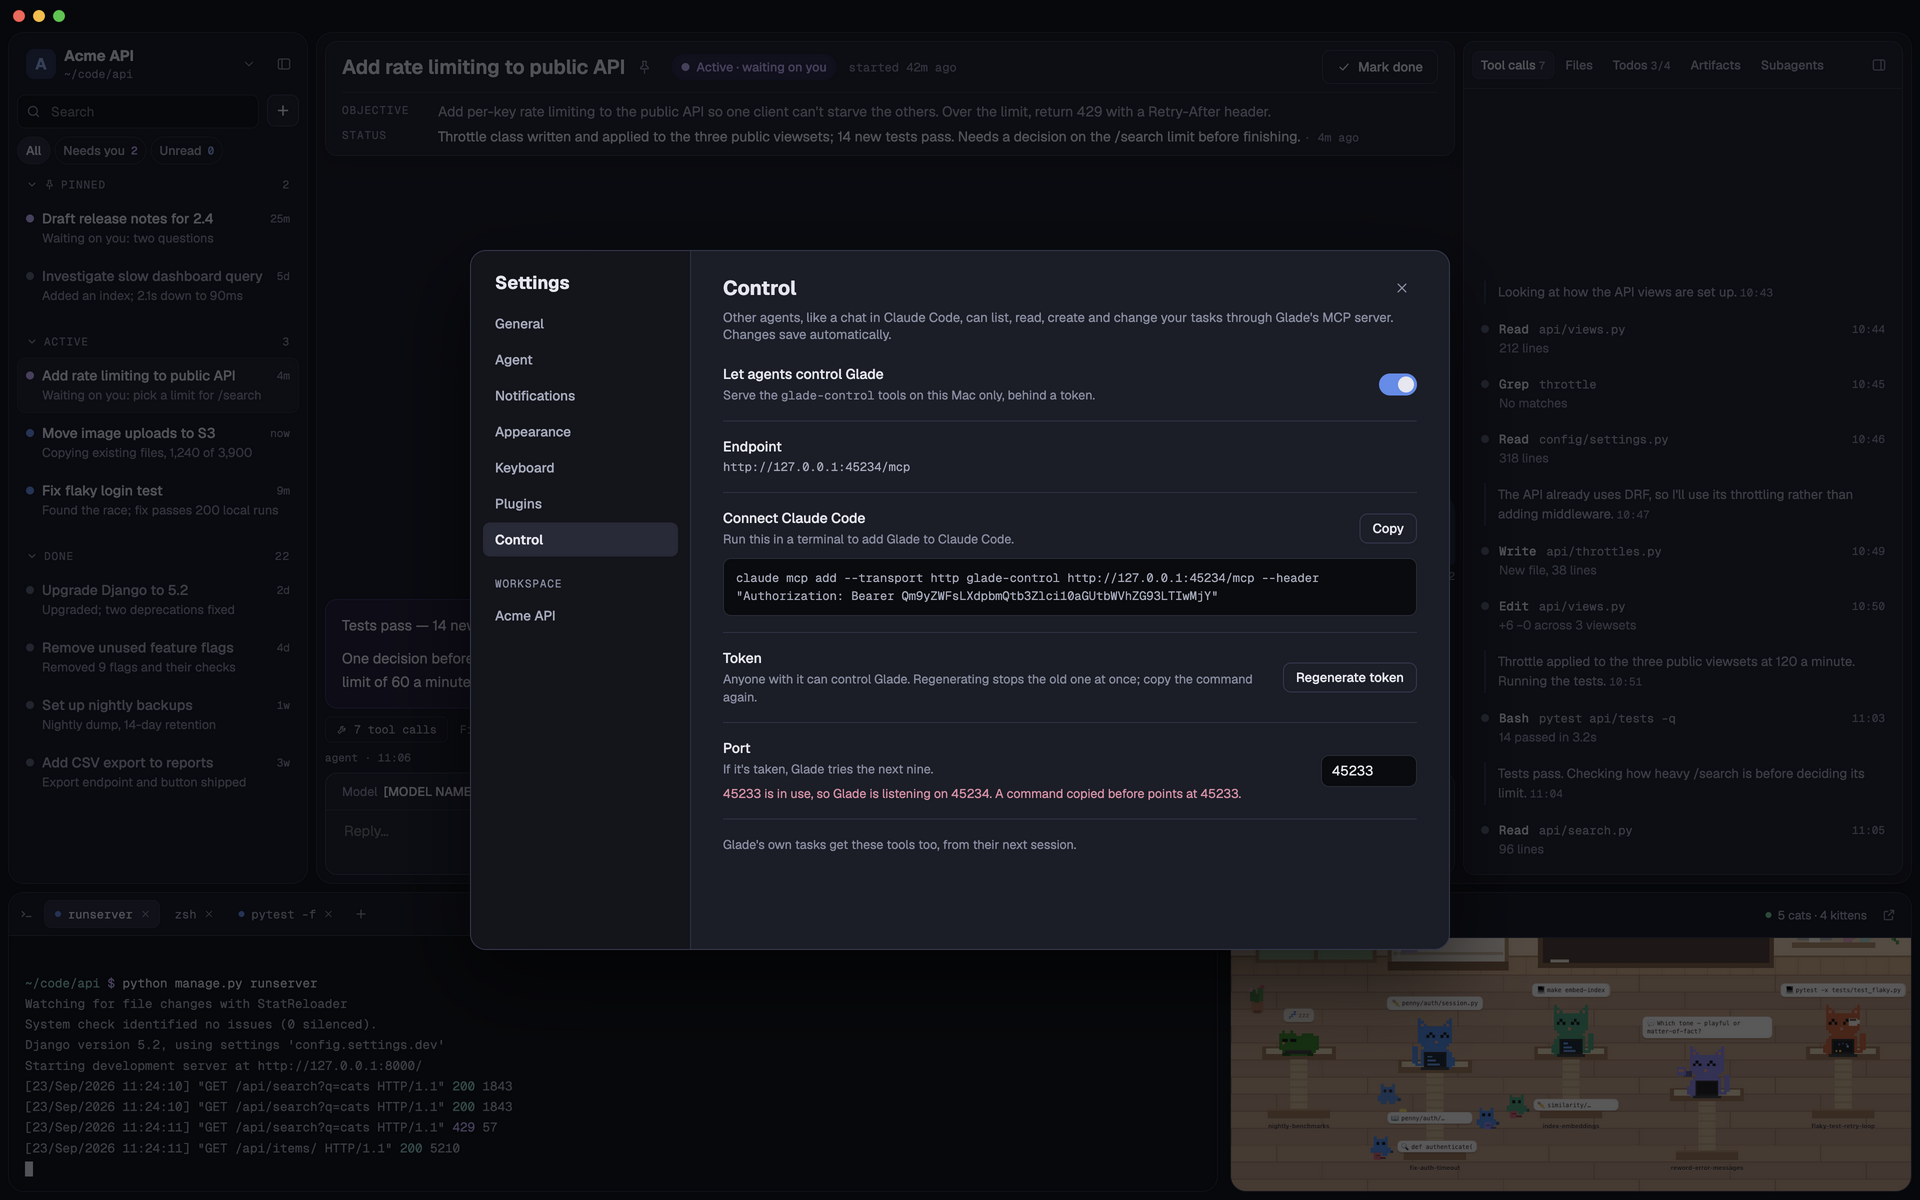
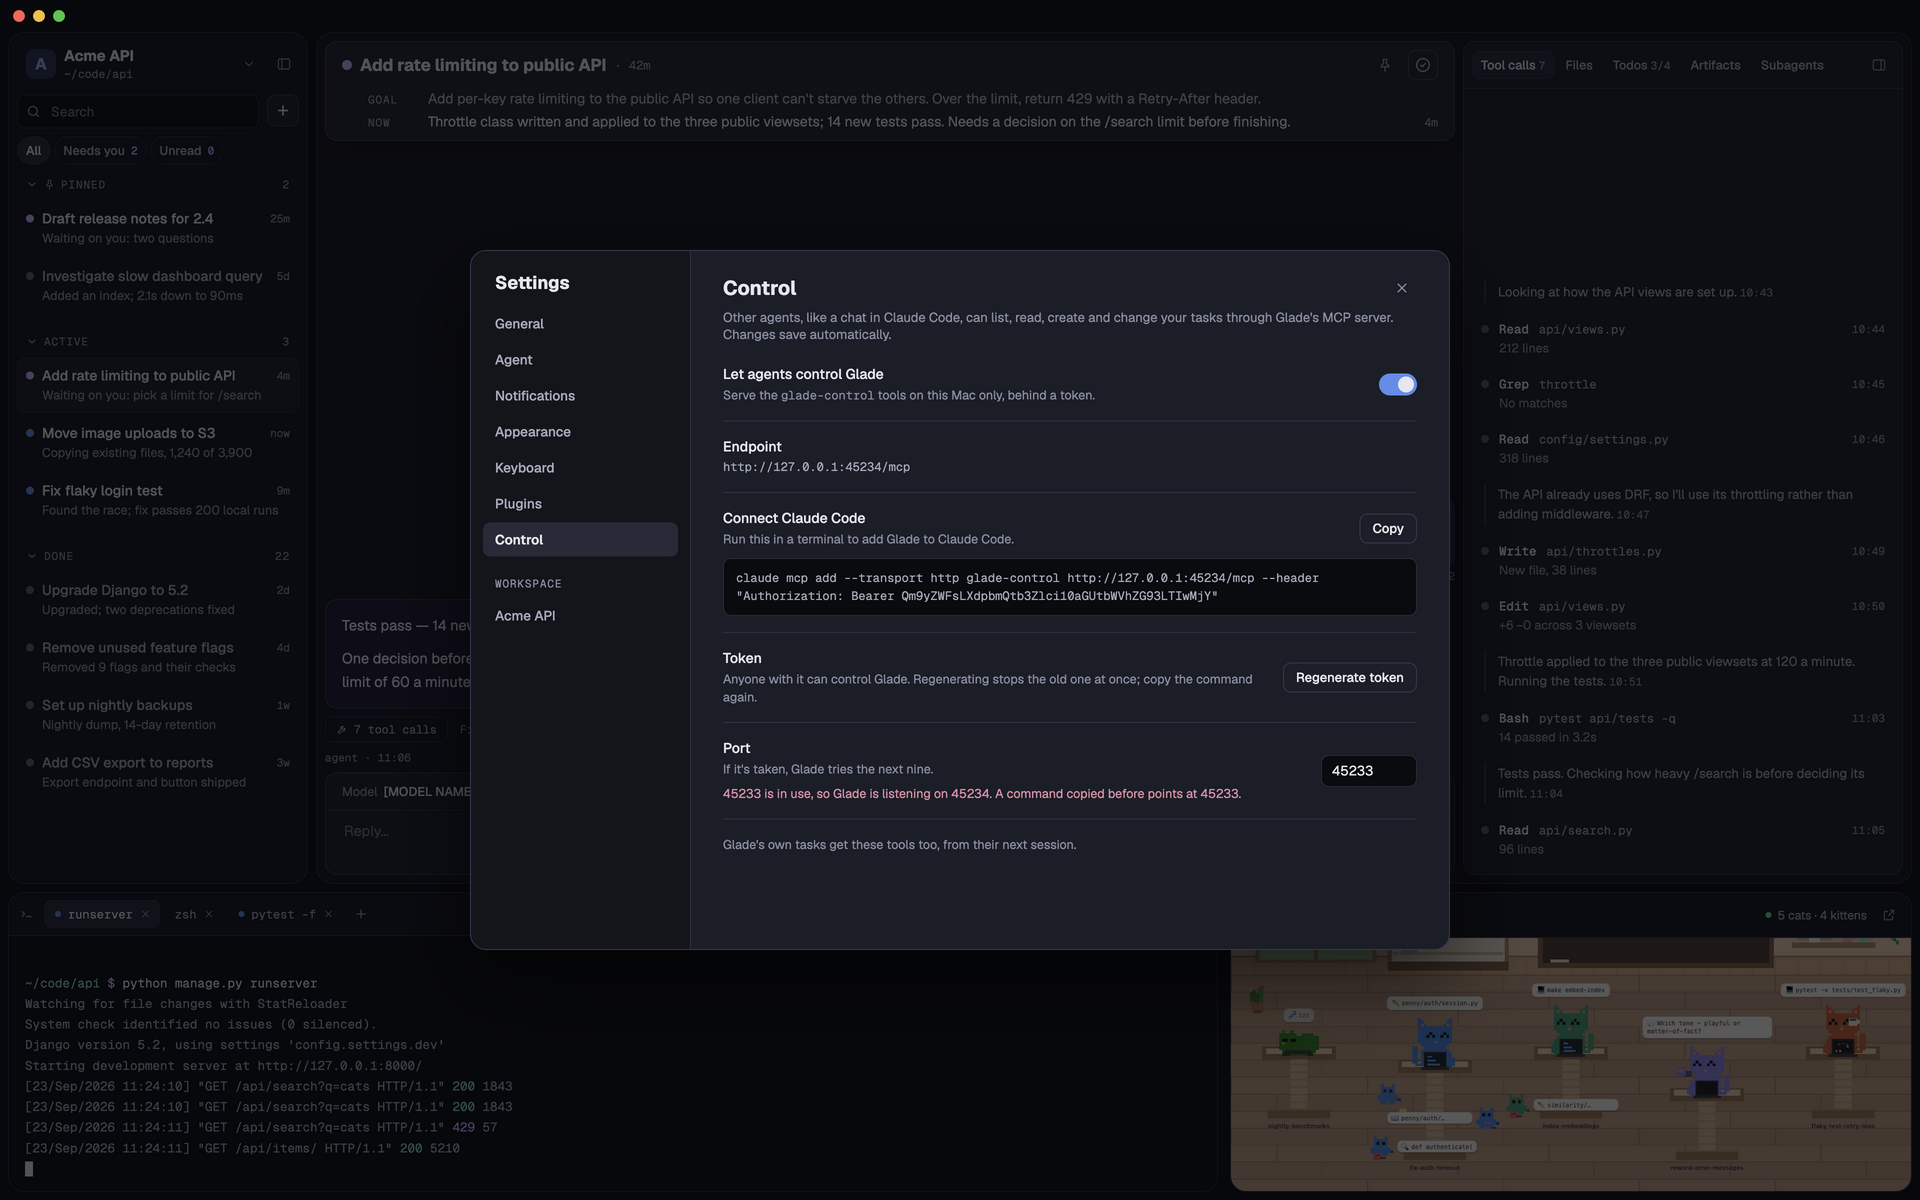
P13: move the control HTTP spec and Settings › Control screen to the compact header (#231)

Changed region(s): [[0.1875, 0.0308, 0.6875, 0.1233], [0.7188, 0.0308, 0.75, 0.0617]]

diff --git a/docs/design/html/21-settings-control.html b/docs/design/html/21-settings-control.html
@@ -83,23 +83,24 @@ a{color:#8FB2F5}a:hover{color:#B5CBF8}
 </aside>
 <div style="flex-grow: 1; min-width: 0; box-sizing: border-box; padding: 8px; background: #14151C; border: 1px solid #272A37; border-radius: 16px; display: flex; gap: 8px">
 <div style="flex-grow: 1; min-width: 0; display: flex; flex-direction: column; gap: 8px">
-<header style="flex-shrink: 0; box-sizing: border-box; padding: 8px 16px; background: #1C1E28; border: 1px solid #2E3242; border-radius: 12px; box-shadow: 0 6px 20px rgba(0,0,0,0.25); display: flex; flex-direction: column; gap: 8px">
-<div style="display: flex; align-items: center; gap: 16px">
-<div style="flex-grow: 1; min-width: 0; display: flex; align-items: center; gap: 12px">
-<div style="min-width: 0; display: flex; align-items: center; gap: 4px"><h1 style="margin: 0; min-width: 0; font-family: Geist, system-ui, sans-serif; font-size: 20px; font-weight: 600; color: #E6E8F0; white-space: nowrap; overflow: hidden; text-overflow: ellipsis">Add rate limiting to public API</h1><button type="button" aria-label="Pin task" aria-pressed="false" title="Pin task" style="flex-shrink: 0; display: flex; align-items: center; justify-content: center; width: 30px; height: 30px; background: transparent; border: 1px solid transparent; border-radius: 7px; color: #8A8FA5; cursor: pointer"><svg width="15" height="15" viewBox="0 0 24 24" fill="none" stroke="currentColor" stroke-width="2" stroke-linecap="round" stroke-linejoin="round"><path d="M12 17v5"></path><path d="M9 3h6l-1 6 4 4v2H6v-2l4-4z"></path></svg></button></div>
-<span style="flex-shrink: 0; display: flex; align-items: center; gap: 7px; height: 26px; padding: 0 10px; border-radius: 13px; background: #2A2445; color: #C8B2FF; font-size: 12.5px; font-weight: 500"><span style="flex-shrink: 0; width: 8px; height: 8px; border-radius: 4px; background: #C8B2FF"></span>Active · waiting on you</span>
-<span style="flex-shrink: 1000; min-width: 0; white-space: nowrap; overflow: hidden; text-overflow: ellipsis; font-family: 'Geist Mono', ui-monospace, monospace; font-size: 12px; color: #8A8FA5">started 42m ago</span>
+<header style="flex-shrink: 0; box-sizing: border-box; padding: 8px 16px 8px 16px; background: #222430; border: 1px solid #373C4F; border-radius: 12px; box-shadow: 0 6px 20px rgba(0,0,0,0.25); display: flex; flex-direction: column; gap: 8px">
+<div style="display: flex; align-items: center; gap: 8px">
+<div style="flex-grow: 1; min-width: 0; display: flex; align-items: center; gap: 8px">
+<span role="img" aria-label="Active · waiting on you" title="Active · waiting on you" style="flex-shrink: 0; width: 10px; height: 10px; border-radius: 5px; background: #C8B2FF"></span>
+<h1 style="margin: 0; min-width: 0; font-family: Geist, system-ui, sans-serif; font-size: 17px; font-weight: 700; color: #E6E8F0; white-space: nowrap; overflow: hidden; text-overflow: ellipsis">Add rate limiting to public API</h1>
+<span title="Started Sep 23, 2026, 10:42 AM" style="flex-shrink: 1000; min-width: 0; white-space: nowrap; overflow: hidden; text-overflow: ellipsis; font-family: 'Geist Mono', ui-monospace, monospace; font-size: 12px; color: #999DB0">· 42m</span>
 </div>
-<button type="button" style="display: flex; align-items: center; justify-content: center; gap: 7px; height: 34px; padding: 0 14px; border-radius: 8px; font: inherit; font-size: 13px; background: transparent; color: #E6E8F0; border: 1px solid #343850; font-weight: 500; cursor: pointer; white-space: nowrap"><svg width="14" height="14" viewBox="0 0 24 24" fill="none" stroke="currentColor" stroke-width="2.2" stroke-linecap="round" stroke-linejoin="round"><path d="M5 12.5 10 17 19 7"></path></svg>Mark done</button>
+<button type="button" aria-label="Pin task" aria-pressed="false" title="Pin task" style="flex-shrink: 0; display: flex; align-items: center; justify-content: center; width: 30px; height: 30px; background: transparent; border: 1px solid transparent; color: #999DB0; border-radius: 7px; cursor: pointer"><svg width="15" height="15" viewBox="0 0 24 24" fill="none" stroke="currentColor" stroke-width="2" stroke-linecap="round" stroke-linejoin="round"><path d="M12 17v5"></path><path d="M9 3h6l-1 6 4 4v2H6v-2l4-4z"></path></svg></button>
+<button type="button" aria-label="Mark done" title="Mark done" style="flex-shrink: 0; display: flex; align-items: center; justify-content: center; width: 30px; height: 30px; background: transparent; border: 1px solid #3D425E; border-radius: 7px; color: #AEB3C3; cursor: pointer"><svg width="16" height="16" viewBox="0 0 24 24" fill="none" stroke="currentColor" stroke-width="2" stroke-linecap="round" stroke-linejoin="round"><circle cx="12" cy="12" r="9.5"></circle><path d="m8.5 12 2.5 2.5 4.5-5"></path></svg></button>
 </div>
-<div style="display: flex; flex-direction: column; gap: 4px; padding-top: 8px; border-top: 1px solid #2E3242">
-<div style="display: flex; gap: 12px">
-<div style="flex-shrink: 0; width: 84px; padding-top: 2px; font-family: 'Geist Mono', ui-monospace, monospace; font-size: 11px; letter-spacing: 0.08em; text-transform: uppercase; color: #8A8FA5">Objective</div>
-<p style="margin: 0; flex-grow: 1; min-width: 0; font-size: 14px; line-height: 1.5; color: #A6ABBD">Add per-key rate limiting to the public API so one client can't starve the others. Over the limit, return 429 with a Retry-After header.</p>
+<div style="display: flex; flex-direction: column; gap: 2px; padding-left: 18px">
+<div style="display: flex; align-items: baseline; gap: 12px">
+<div style="flex-shrink: 0; width: 48px; margin-left: 8px; white-space: nowrap; font-family: 'Geist Mono', ui-monospace, monospace; font-size: 11px; letter-spacing: 0.08em; text-transform: uppercase; color: #999DB0">Goal</div>
+<p style="margin: 0; flex-grow: 1; min-width: 0; font-size: 14px; line-height: 1.5; color: #AEB3C3">Add per-key rate limiting to the public API so one client can't starve the others. Over the limit, return 429 with a Retry-After header.</p>
 </div>
-<div style="display: flex; gap: 12px">
-<div style="flex-shrink: 0; width: 84px; padding-top: 2px; font-family: 'Geist Mono', ui-monospace, monospace; font-size: 11px; letter-spacing: 0.08em; text-transform: uppercase; color: #8A8FA5">Status</div>
-<p style="margin: 0; flex-grow: 1; min-width: 0; font-size: 14px; line-height: 1.5; color: #E6E8F0">Throttle class written and applied to the three public viewsets; 14 new tests pass. Needs a decision on the /search limit before finishing. <span style="font-family: 'Geist Mono', ui-monospace, monospace; font-size: 11.5px; color: #8A8FA5">· 4m ago</span></p>
+<div style="display: flex; align-items: baseline; gap: 12px">
+<div style="flex-shrink: 0; width: 48px; margin-left: 8px; white-space: nowrap; font-family: 'Geist Mono', ui-monospace, monospace; font-size: 11px; letter-spacing: 0.08em; text-transform: uppercase; color: #999DB0">Now</div>
+<p style="margin: 0; flex-grow: 1; min-width: 0; font-size: 14px; line-height: 1.5; color: #E6E8F0">Throttle class written and applied to the three public viewsets; 14 new tests pass. Needs a decision on the /search limit before finishing.</p><span style="flex-shrink: 0; font-family: 'Geist Mono', ui-monospace, monospace; font-size: 11.5px; color: #999DB0">4m</span>
 </div>
 </div>
 </header>

diff --git a/e2e/control-http.spec.ts b/e2e/control-http.spec.ts
@@ -147,7 +147,7 @@ test('an MCP client over HTTP, connected with what Settings › Control shows, c
 
   // Marked done.
   expect((await client.call('mark_done', { id })).isError).toBe(false)
-  await expect(taskHeader(window).pill).toHaveText(/^Done/)
+  await expect(taskHeader(window).stateDot).toHaveAccessibleName(/^Done/)
   await expect(list.row('Active', RENAMED)).toHaveCount(0)
   await expect(list.sectionHeader('Done')).toHaveText('Done1')
 
